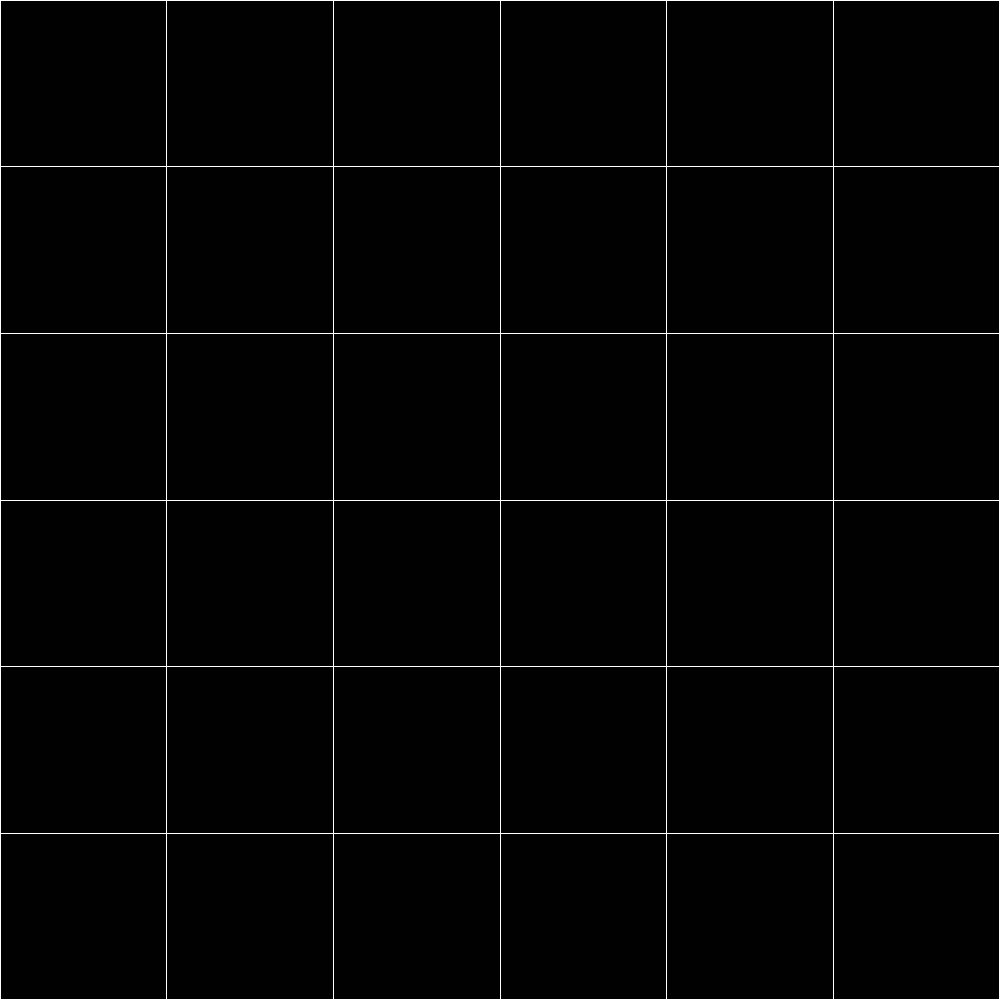
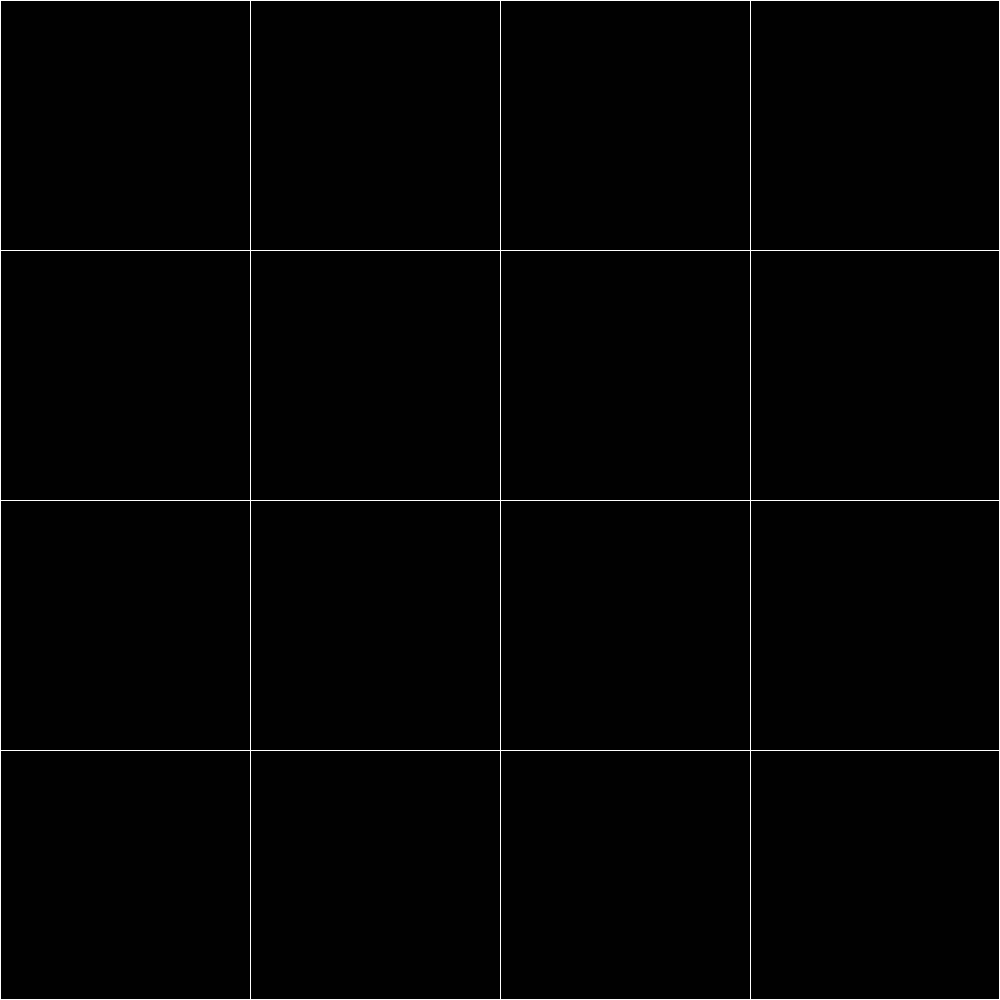
Started working on the api

diff --git a/GeoShapesGenerator.py b/GeoShapesGenerator.py
@@ -40,26 +40,27 @@ class GeoShapesGenerator:
             points = np.int32([points])
             cv.polylines(self.image, points, True, color, self.thickness)
 
-        def generate_possible_edges(y: int, x: int) -> list[tuple[int, int]]:
+        def generate_possible_edges(y: int, x: int, next_y: int, next_x: int) -> list[tuple[int, int]]:
             edges = []
+            # Working with the approximated self.tile_size
             extra_space = int(self.extra_space_size * self.tile_size)
             if y != 0:  # top
                 y_pos = random.randint(
                     y - extra_space, y + extra_space)
-                x_pos = random.randint(x, x + self.tile_size)
+                x_pos = random.randint(x, next_x)
                 edges.append((y_pos, x_pos))
-            if y != self.tile_size * (self.pieces - 1):  # bottom
+            if next_y != self.image_size - 1:  # bottom
                 y_pos = random.randint(
                     y + self.tile_size - extra_space, y + self.tile_size + extra_space)
-                x_pos = random.randint(x, x + self.tile_size)
+                x_pos = random.randint(x, next_x)
                 edges.append((y_pos, x_pos))
             if x != 0:  # left
-                y_pos = random.randint(y, y + self.tile_size)
+                y_pos = random.randint(y, next_y)
                 x_pos = random.randint(
                     x - extra_space, x + extra_space)
                 edges.append((y_pos, x_pos))
-            if x != self.tile_size * (self.pieces - 1):  # right
-                y_pos = random.randint(y, y + self.tile_size)
+            if next_x != self.image_size - 1:  # right
+                y_pos = random.randint(y, next_y)
                 x_pos = random.randint(
                     x + self.tile_size - extra_space, x + self.tile_size + extra_space)
                 edges.append((y_pos, x_pos))
@@ -82,10 +83,21 @@ class GeoShapesGenerator:
             elif shape == "T":
                 draw_polygon(3, center, radius, color)
 
-        for y in range(0, self.image_size, self.tile_size):
-            for x in range(0, self.image_size, self.tile_size):
-                tile = self.image[y:min((y + self.tile_size), self.image_size),
-                                  x:min((x + self.tile_size), self.image_size), :]
+# The cycles go through the tiles to fill the image, so sometimes self.tile_size doesn't correspond with the real size
+# It shouldn't cause any problems, since the difference is so small, but I marked the parts of the code where problems could occur
+        for i in range(self.pieces):
+            y = (i * self.image_size) // self.pieces
+            next_y = (((i + 1) * self.image_size)) // self.pieces
+            if next_y == self.image_size:
+                next_y -= 1
+
+            for j in range(self.pieces):
+                x = (j * self.image_size) // self.pieces
+                next_x = ((j + 1) * self.image_size) // self.pieces
+                if next_x == self.image_size:
+                    next_x -= 1
+
+                tile = self.image[y:next_y, x:next_x, :]
                 tile_center = tile[self.border_size:-self.border_size,
                                    self.border_size:-self.border_size, :]
 
@@ -97,19 +109,21 @@ class GeoShapesGenerator:
                         tile_center_colored = 0
                     tile_colored = np.count_nonzero(
                         cv.cvtColor(tile, cv.COLOR_BGR2GRAY))
-                    black_percentage = 1 - \
-                        ((tile_colored - tile_center_colored) /
-                         (self.tile_size ** 2 - (self.tile_size - 2) ** 2))
+                    # Working with the approximated self.tile_size
+                    border_colored = tile_colored - tile_center_colored
+                    center_area = (self.tile_size - 2 * self.border_size) ** 2
+                    border_area = self.tile_size ** 2 - center_area
+                    black_percentage = 1 - (border_colored / border_area)
                 else:
                     black_percentage = 1
 
-                if black_percentage > 0.95:
+                if black_percentage > self.border_emptiness_thresh:
                     color = self.colors[random.randrange(0, len(self.colors))]
                     shape = self.shapes[random.randrange(0, len(self.shapes))]
                     radius = random.randint(
                         int(self.tile_size * 0.8), int(self.tile_size)) // 2
 
-                    edges = generate_possible_edges(y, x)
+                    edges = generate_possible_edges(y, x, next_y, next_x)
                     edge = random.choice(edges)
                     y_pos, x_pos = edge[1], edge[0]
                     center = (y_pos, x_pos)

diff --git a/main.py b/main.py
@@ -1,12 +1,20 @@
+from flask import Flask, send_file, request
 from GeoShapesGenerator import GeoShapesGenerator
-from GridGenerator import GridGenerator
 import cv2 as cv
+import io
 
-tiles = 6
-image_size = 1000
-image = GeoShapesGenerator(image_size, tiles).generate_image().get_image()
-grid = GridGenerator(image_size, tiles).generate_grid().get_grid()
-cv.imwrite("puzzle.png", image)  # TODO test v unity
-cv.imwrite("grid.png", grid)
-cv.imshow("Image", cv.bitwise_or(grid, image))
-cv.waitKey(0)
+app = Flask(__name__)
+
+
+@app.route("/generate_image")
+def generate_image():
+    image_size = int(request.args.get("image_size"))
+    pieces = int(request.args.get("pieces"))
+    image = GeoShapesGenerator(image_size, pieces).generate_image().get_image()
+    _, image_encoded = cv.imencode("image.png", image)
+    image_bit_array = io.BytesIO(image_encoded)
+    return send_file(image_bit_array, "image/png")
+
+
+if __name__ == '__main__':
+    app.run(debug=True)

diff --git a/GridGenerator.py b/GridGenerator.py
@@ -16,8 +16,8 @@ class GridGenerator:
     def generate_grid(self) -> "GridGenerator":
         grid = np.ones(
             (self.image_size, self.image_size, 3), dtype=np.uint8)
-        for i in range(0, self.pieces + 1):
-            pos = i * self.image_size // self.pieces
+        for i in range(self.pieces + 1):
+            pos = (i * self.image_size) // self.pieces
             if pos == self.image_size:  # So that the last line is still in the image
                 pos -= 1
             cv.line(grid, (pos, 0), (pos, self.image_size), (255, 255, 255), 1)

diff --git a/test.py b/test.py
@@ -1,0 +1,14 @@
+from GeoShapesGenerator import GeoShapesGenerator
+from GridGenerator import GridGenerator
+import cv2 as cv
+
+tiles = 4
+image_size = 1000
+image = GeoShapesGenerator(image_size, tiles).generate_image().get_image()
+grid = GridGenerator(image_size, tiles).generate_grid().get_grid()
+image = cv.bitwise_or(grid, image)
+cv.imwrite("puzzle.png", image)
+cv.imwrite("grid.png", grid)
+cv.imshow("Image", cv.bitwise_or(grid, image))
+cv.waitKey(0)
+()
